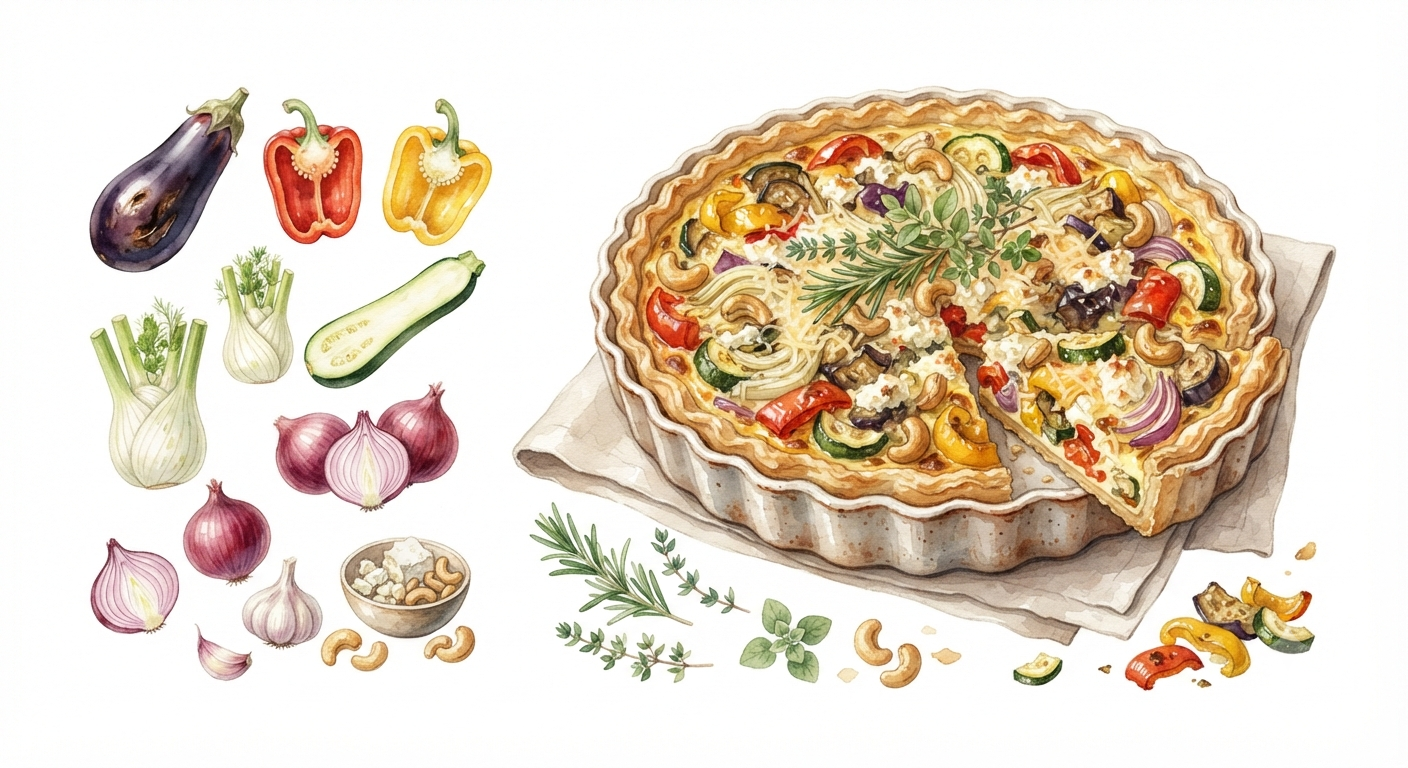
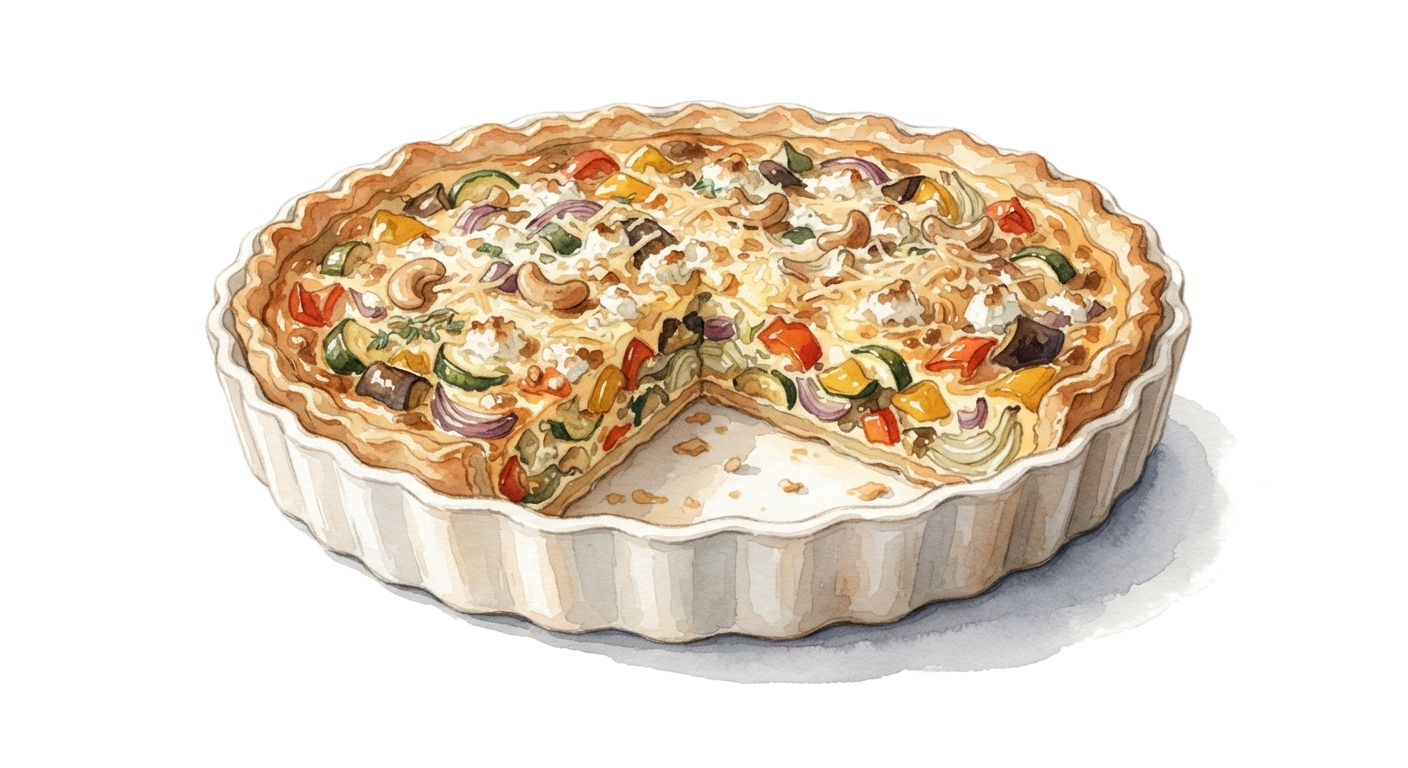
Add nano-banana-prompt skill to generate illustration prompts (#141)
* Add nano-banana-prompt skill to generate illustration prompts

Given a recipe name, outputs the fixed watercolor-illustration style
instruction plus the recipe's full LaTeX source, ready to paste into
nano banana — matching the manual workflow already in use.

* Rename nano-banana-prompt skill to image-prompt

* Strip LaTeX markup from image-prompt skill output

Ingredients, steps, and metadata now get converted to plain Dutch
text before being pasted into the nano banana prompt, instead of
raw .tex with \index/\label/\dvd noise.

* Encode observed illustration style into image-prompt's fixed prompt

Reviewed existing images/*.png for consistent traits (three-quarter
angle, only in-recipe ingredients shown alongside, muted natural
watercolor palette, moderate painterly detail, plain white background
with soft shadow, no stray paint splatters) and folded them into the
style block so generated prompts match the book's established look.

* Skip loose-ingredient composition for casserole-style dishes

Dishes like lasagne already show their filling once cut open, so the
generated prompt no longer asks for a side arrangement of ingredients
in those cases -- only when the plated dish doesn't already reveal
what's in it (soup, sauce, filled sandwich, pasta).

* Add hero illustration to simpele kippensoep

Recipe text still fits on a single page, same as before; the
illustration lands on the following page, matching how every other
[…]

diff --git a/recipes/pide.tex b/recipes/pide.tex
@@ -8,6 +8,7 @@
 
 \meta{2 uur \dvd Voor 6 personen \dvd Oven 200\,°C}
 
+\marginimage{images/pide}
 \lettrine{P}{ide} is Turks bootvormig brood met een gevulde bodem, gebakken tot
 de randen goudbruin zijn. Het deeg heeft ruim een uur nodig om te rijzen; begin
 daar op tijd mee. Hieronder staan twee vullingen: spinazie met feta, en gehakt

diff --git a/recipes/mini-aardappel-quiches.tex b/recipes/mini-aardappel-quiches.tex
@@ -7,6 +7,7 @@
 
 \meta{40 minuten \dvd 12 stuks \dvd Oven 200\,°C}
 
+\marginimage{images/mini-aardappel-quiches}
 \lettrine{M}{ini-aardappelquiches} met een knapperige aardappelbodem en een vulling
 van spek, bosui en Parmezaan, een paar keer gemaakt voor het kerstdiner op de
 basisschool. Van tevoren te maken en ook koud lekker.

diff --git a/recipes/wraps.tex b/recipes/wraps.tex
@@ -6,6 +6,7 @@
 
 \meta{Rusten 20–30 minuten \dvd 5 stuks}
 
+\marginimage{images/wraps}
 \lettrine{Z}{elfgemaakte} wraps zijn zo gedraaid en hebben geen gist of
 rijstijd nodig. Gewoon kneden, even laten rusten en dun uitrollen in de
 koekenpan bakken.

diff --git a/recipes/kippensoep-simpel.tex b/recipes/kippensoep-simpel.tex
@@ -37,4 +37,5 @@ volgende keer.}
   \item Roer er eventueel wat vermicelli door voor meer body en laat die
         meegaren.
 \end{steps}
+\heroimagefade{images/kippensoep-simpel}
 \end{recipe}

diff --git a/.claude/commands/image-prompt.md b/.claude/commands/image-prompt.md
@@ -1,0 +1,43 @@
+# Generate a nano banana illustration prompt for a recipe
+
+The user will name a recipe (by dish title or filename). Your job is to output a ready-to-paste prompt for nano banana (Google's Gemini image model) that combines this project's fixed illustration-style instruction with the recipe's content, stripped of LaTeX markup, as inspiration.
+
+## Steps
+
+1. **Find the recipe.** Match the named dish against the `\begin{recipe}{...}` titles in `recipes/*.tex`, or against the filename if the user gives a slug. If nothing matches exactly, grep for close matches and ask which one they mean rather than guessing.
+
+2. **Read the full recipe file.**
+
+3. **Strip the LaTeX noise.** Convert the recipe into plain, readable Dutch text before it goes anywhere near the prompt — an image model reads `\index[register]{...}`, `\label{...}`, `\dvd`, brace groups, and `\item` markers as visual noise, not content. Concretely:
+   - Title: from `\begin{recipe}{Naam}`, plain, no braces.
+   - Kicker: the human-readable text argument of `\kicker[...]{...}` (e.g. `Voorgerecht · vlees · Nederlands`), not the bracketed tag list.
+   - Meta: the `\meta{...}` text with `\dvd` replaced by `·`.
+   - Intro: the `\lettrine{X}{rest}` paragraph reassembled into a normal sentence (`X` + `rest`), with any trailing `\index`/`\label`/comments dropped.
+   - Ingredients: one line per `\ing{amount}{name}` → `amount name`, and per `\ingb{name}` → `name`, dropping every `\index[register]{...}` tag.
+   - Steps: the text of each `\item`, dropping `\index`/`\label`, as a numbered or bulleted list.
+   - Tip: the plain text of `\tip{...}`, if present.
+   - Drop entirely: `\heroimage`/`\heroimagefade`/`\heroplaceholder`/`\ingredientsketch`/`\marginimage` calls, `\blockrule{...}` labels (the "Ingrediënten"/"Bereiding" section names can stay as plain headings if useful, but the macro itself goes), and any `%` comments.
+
+4. **Output the prompt** in this exact shape — the fixed style instruction first, then the cleaned recipe text as inspiration, so the user can copy the whole block straight into nano banana:
+
+   ```
+   Gebruik dit recept als inspiratie. Maak een verfijnde waterverfillustratie die de essentie van het gerecht weergeeft, in dezelfde stijl als de andere illustraties in dit kookboek:
+   - Gezichtspunt: driekwart vanuit een licht verhoogde hoek, niet recht van boven en niet recht van opzij, zodat je in de kom, pan of op het bord kijkt.
+   - Compositie: het gerecht in zijn kom, pan of op zijn bord als hoofdbeeld. Zet er alleen een paar losse hoofdingrediënten uit het recept zelf naast als die niet al duidelijk worden uit het opgediende gerecht (zoals bij een soep, saus, gevuld broodje of pastagerecht) — geen verzonnen extra ingrediënten of rekwisieten. Bij een ovenschotel of ander gerecht waarvan de vulling al zichtbaar is (lasagne, moussaka, quiche, gevulde rollade), laat het gerecht dan gewoon alleen staan, eventueel met een aangesneden punt of plak zodat de laagjes/vulling zichtbaar zijn, zonder losse ingrediënten erbij.
+   - Kleuren: zachte, natuurlijke aquarelkleuren (crème, terracotta, zachtgroen, warme bruinen), geen felle of verzadigde kleuren.
+   - Detailniveau: herkenbare texturen en vormen, maar los en schilderachtig aangezet, niet fotorealistisch.
+   - Achtergrond: puur wit, geen tafel of ondergrond getekend, alleen een zachte, koelgrijze slagschaduw onder het gerecht en de ingrediënten.
+   - Geen losse artistieke verfspatten of vlekken op de achtergrond.
+   - Geen tekst, geen rand.
+   Geschikt voor een professioneel kookboek.
+
+   <cleaned plain-text version of the recipe>
+   ```
+
+   Put it in a single fenced code block so it's easy to copy in one go. This style block was derived by reviewing the existing illustrations in `images/`; if the book's visual style shifts, re-derive it from a fresh sample rather than hand-tweaking it out of sync with the actual art.
+
+5. **Don't otherwise summarize, translate, or embellish the recipe.** Keep every ingredient, amount, and step — only the LaTeX markup is removed, not the content.
+
+6. **Flag existing art.** If the recipe already has a `\heroimage{...}{...}` or `\heroimagefade{...}` call (i.e. it's past the `\heroplaceholder` stage), say so briefly so the user knows a new illustration would replace existing art — but still produce the prompt if they want it anyway.
+
+7. **Stop there.** This skill's job is producing the prompt, not generating the image, saving it under `images/`, or wiring it into the recipe with `\heroimage`/`\heroimagefade`. Only help with those follow-up steps if the user separately asks.
